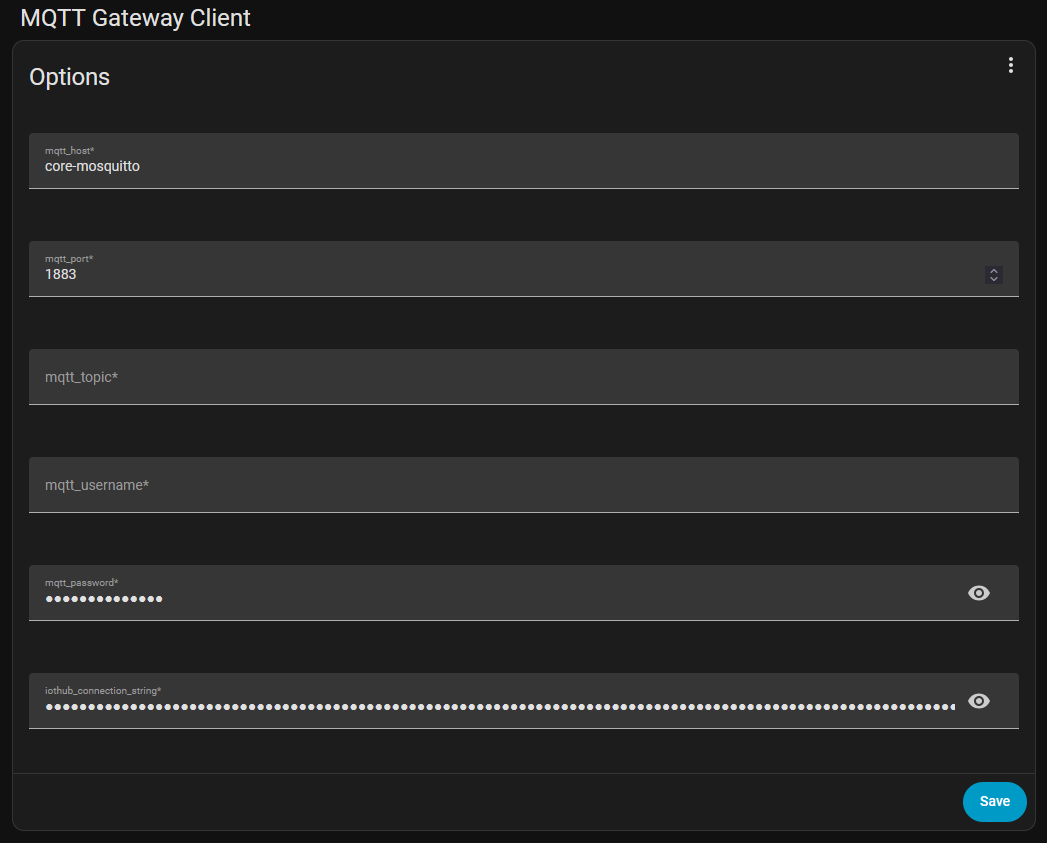
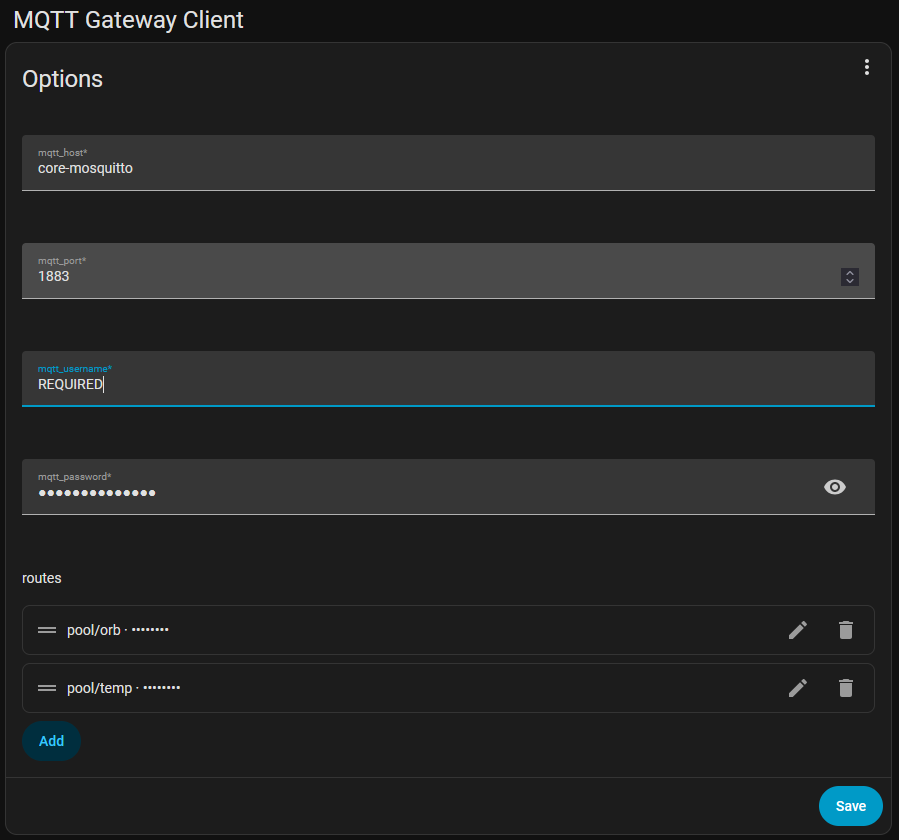
Updated config image with multiple topic and connections

diff --git a/MQTTGatewayClient-addon/README.md b/MQTTGatewayClient-addon/README.md
@@ -35,6 +35,11 @@ MQTT Topic – Topic to subscribe to
 MQTT Username / Password – MQTT authentication
 IoT Hub Connection String – Azure IoT Hub device connection string
 
-<img src="../images/mqtt_config.png" width="300"/>
+<img src="../images/mqtt_config.png" width="400"/>
+
+Then hit 'Add' button to type topic to subscribe on and the connection string of yours,
+you can add multiple topics/connections strings to listen for
+
+<img src="../images/multi_connection.png" width="400"/>
 
 The add-on runs as a background service and does not provide its own web interface.
